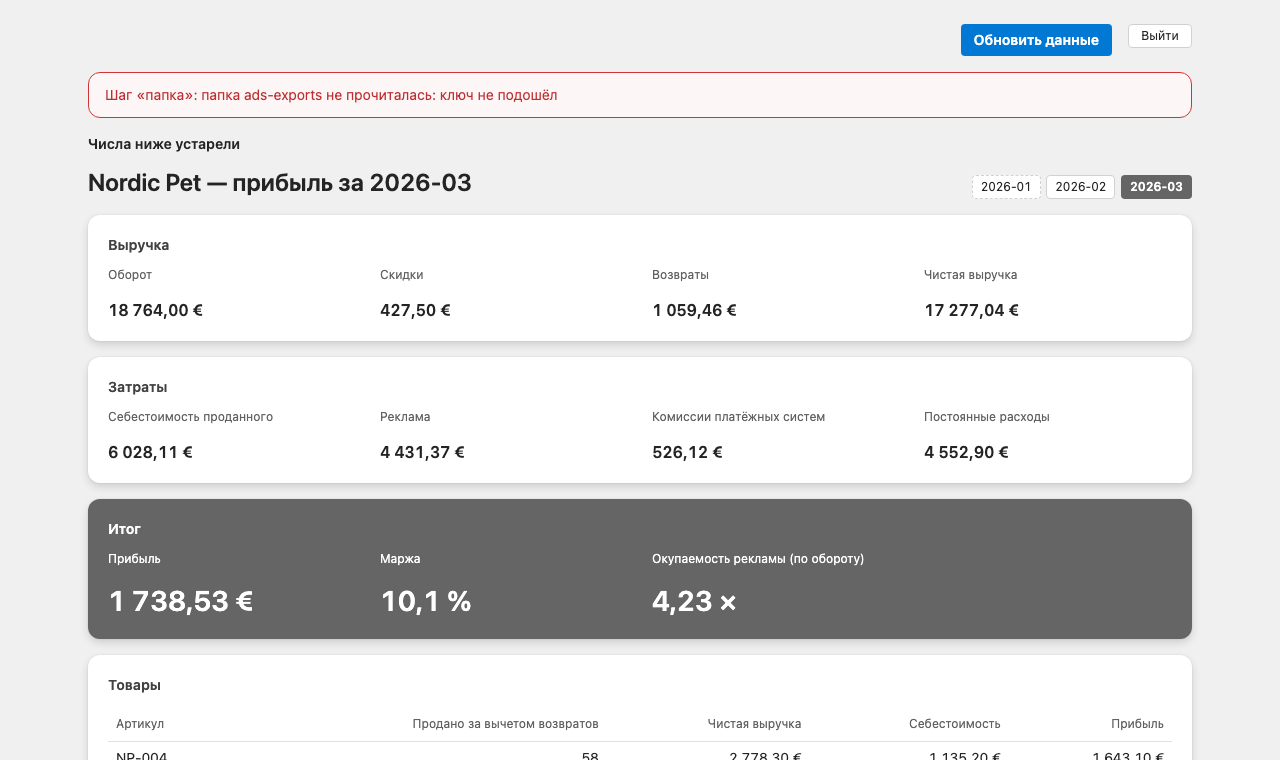
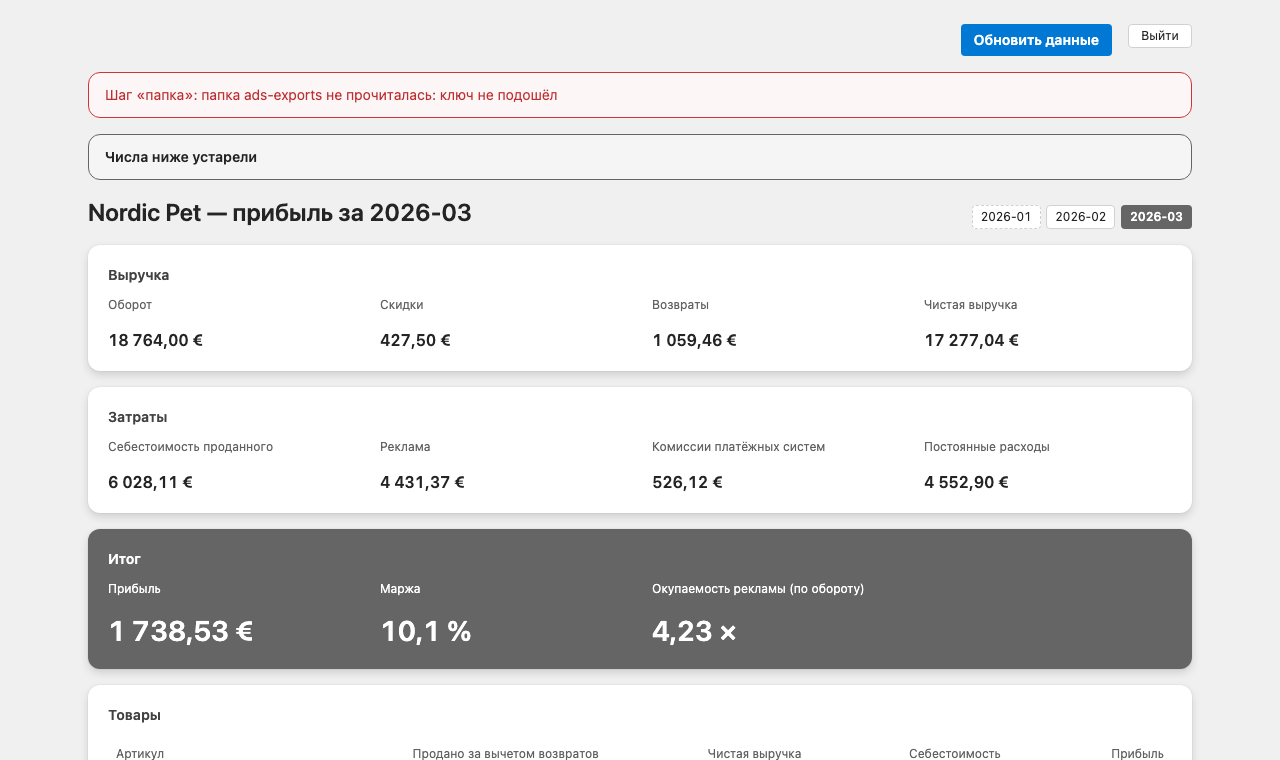
S10: две пометки устаревания к одной форме, распад полосы назван ценой
Пометка «числа ниже устарели» стала плашкой той же формы, что и пометка
холодного открытия: те же отступы, скругление и рамка. Цвет остаётся разным,
и это объяснено — вторая живёт внутри обесцвеченного блока устаревших чисел.

Полоса управления распадается в двух состояниях из пяти. Пробовал стилями:
снять clear у плашки и дать ей свой контекст форматирования — плашка всё равно
уходит под плавающее; сузить её рядом с кнопкой — хуже. Это цена расположения
кнопок в разметке, разметку кусок не открывает. Названо в плане и уйдёт в тело
pull request.

diff --git a/app/globals.css b/app/globals.css
@@ -939,10 +939,26 @@ button.primary:active:not(:disabled) {
   filter: grayscale(1);
 }
 
+/*
+ * Пометка устаревания приводится к одному виду с пометкой холодного открытия.
+ *
+ * Их две и они об одном: «числа отстали» приходит при открытии страницы, «числа ниже устарели» —
+ * после неудачного нажатия кнопки. Прежде первая была плашкой во всю ширину, вторая — голым
+ * жирным текстом на холсте. Теперь обе — плашка одной формы: те же отступы, то же скругление, та
+ * же рамка.
+ *
+ * **Цвет у них всё же разный, и это не недоделка.** Вторая живёт внутри блока устаревших чисел, а
+ * он обесцвечен нарочно, — значит и плашка внутри него выходит серой. Это то же самое сообщение,
+ * показанное в том же обесцвеченном слое, а не второй вид пометки.
+ */
 .stale-mark {
-  margin: 0 0 var(--spacingVerticalM);
-  font-weight: var(--fontWeightSemibold);
+  margin: 0 0 var(--gap);
+  padding: var(--spacingVerticalM) var(--spacingHorizontalL);
+  background: var(--accent-soft);
   color: var(--text);
+  border: var(--strokeWidthThin) solid var(--accent-line);
+  border-radius: var(--borderRadius2XLarge);
+  font-weight: var(--fontWeightSemibold);
 }
 
 /* ——— Страница входа ——— */

diff --git a/docs/screens/chisla-otstali-dark.html b/docs/screens/chisla-otstali-dark.html
@@ -941,10 +941,26 @@ button.primary:active:not(:disabled) {
   filter: grayscale(1);
 }
 
+/*
+ * Пометка устаревания приводится к одному виду с пометкой холодного открытия.
+ *
+ * Их две и они об одном: «числа отстали» приходит при открытии страницы, «числа ниже устарели» —
+ * после неудачного нажатия кнопки. Прежде первая была плашкой во всю ширину, вторая — голым
+ * жирным текстом на холсте. Теперь обе — плашка одной формы: те же отступы, то же скругление, та
+ * же рамка.
+ *
+ * **Цвет у них всё же разный, и это не недоделка.** Вторая живёт внутри блока устаревших чисел, а
+ * он обесцвечен нарочно, — значит и плашка внутри него выходит серой. Это то же самое сообщение,
+ * показанное в том же обесцвеченном слое, а не второй вид пометки.
+ */
 .stale-mark {
-  margin: 0 0 var(--spacingVerticalM);
-  font-weight: var(--fontWeightSemibold);
+  margin: 0 0 var(--gap);
+  padding: var(--spacingVerticalM) var(--spacingHorizontalL);
+  background: var(--accent-soft);
   color: var(--text);
+  border: var(--strokeWidthThin) solid var(--accent-line);
+  border-radius: var(--borderRadius2XLarge);
+  font-weight: var(--fontWeightSemibold);
 }
 
 /* ——— Страница входа ——— */

diff --git a/docs/screens/chisla-otstali.html b/docs/screens/chisla-otstali.html
@@ -941,10 +941,26 @@ button.primary:active:not(:disabled) {
   filter: grayscale(1);
 }
 
+/*
+ * Пометка устаревания приводится к одному виду с пометкой холодного открытия.
+ *
+ * Их две и они об одном: «числа отстали» приходит при открытии страницы, «числа ниже устарели» —
+ * после неудачного нажатия кнопки. Прежде первая была плашкой во всю ширину, вторая — голым
+ * жирным текстом на холсте. Теперь обе — плашка одной формы: те же отступы, то же скругление, та
+ * же рамка.
+ *
+ * **Цвет у них всё же разный, и это не недоделка.** Вторая живёт внутри блока устаревших чисел, а
+ * он обесцвечен нарочно, — значит и плашка внутри него выходит серой. Это то же самое сообщение,
+ * показанное в том же обесцвеченном слое, а не второй вид пометки.
+ */
 .stale-mark {
-  margin: 0 0 var(--spacingVerticalM);
-  font-weight: var(--fontWeightSemibold);
+  margin: 0 0 var(--gap);
+  padding: var(--spacingVerticalM) var(--spacingHorizontalL);
+  background: var(--accent-soft);
   color: var(--text);
+  border: var(--strokeWidthThin) solid var(--accent-line);
+  border-radius: var(--borderRadius2XLarge);
+  font-weight: var(--fontWeightSemibold);
 }
 
 /* ——— Страница входа ——— */

diff --git a/docs/screens/obychnyy-dark.html b/docs/screens/obychnyy-dark.html
@@ -941,10 +941,26 @@ button.primary:active:not(:disabled) {
   filter: grayscale(1);
 }
 
+/*
+ * Пометка устаревания приводится к одному виду с пометкой холодного открытия.
+ *
+ * Их две и они об одном: «числа отстали» приходит при открытии страницы, «числа ниже устарели» —
+ * после неудачного нажатия кнопки. Прежде первая была плашкой во всю ширину, вторая — голым
+ * жирным текстом на холсте. Теперь обе — плашка одной формы: те же отступы, то же скругление, та
+ * же рамка.
+ *
+ * **Цвет у них всё же разный, и это не недоделка.** Вторая живёт внутри блока устаревших чисел, а
+ * он обесцвечен нарочно, — значит и плашка внутри него выходит серой. Это то же самое сообщение,
+ * показанное в том же обесцвеченном слое, а не второй вид пометки.
+ */
 .stale-mark {
-  margin: 0 0 var(--spacingVerticalM);
-  font-weight: var(--fontWeightSemibold);
+  margin: 0 0 var(--gap);
+  padding: var(--spacingVerticalM) var(--spacingHorizontalL);
+  background: var(--accent-soft);
   color: var(--text);
+  border: var(--strokeWidthThin) solid var(--accent-line);
+  border-radius: var(--borderRadius2XLarge);
+  font-weight: var(--fontWeightSemibold);
 }
 
 /* ——— Страница входа ——— */

diff --git a/docs/screens/obychnyy.html b/docs/screens/obychnyy.html
@@ -941,10 +941,26 @@ button.primary:active:not(:disabled) {
   filter: grayscale(1);
 }
 
+/*
+ * Пометка устаревания приводится к одному виду с пометкой холодного открытия.
+ *
+ * Их две и они об одном: «числа отстали» приходит при открытии страницы, «числа ниже устарели» —
+ * после неудачного нажатия кнопки. Прежде первая была плашкой во всю ширину, вторая — голым
+ * жирным текстом на холсте. Теперь обе — плашка одной формы: те же отступы, то же скругление, та
+ * же рамка.
+ *
+ * **Цвет у них всё же разный, и это не недоделка.** Вторая живёт внутри блока устаревших чисел, а
+ * он обесцвечен нарочно, — значит и плашка внутри него выходит серой. Это то же самое сообщение,
+ * показанное в том же обесцвеченном слое, а не второй вид пометки.
+ */
 .stale-mark {
-  margin: 0 0 var(--spacingVerticalM);
-  font-weight: var(--fontWeightSemibold);
+  margin: 0 0 var(--gap);
+  padding: var(--spacingVerticalM) var(--spacingHorizontalL);
+  background: var(--accent-soft);
   color: var(--text);
+  border: var(--strokeWidthThin) solid var(--accent-line);
+  border-radius: var(--borderRadius2XLarge);
+  font-weight: var(--fontWeightSemibold);
 }
 
 /* ——— Страница входа ——— */

diff --git a/docs/screens/otkaz-bazy-dark.html b/docs/screens/otkaz-bazy-dark.html
@@ -941,10 +941,26 @@ button.primary:active:not(:disabled) {
   filter: grayscale(1);
 }
 
+/*
+ * Пометка устаревания приводится к одному виду с пометкой холодного открытия.
+ *
+ * Их две и они об одном: «числа отстали» приходит при открытии страницы, «числа ниже устарели» —
+ * после неудачного нажатия кнопки. Прежде первая была плашкой во всю ширину, вторая — голым
+ * жирным текстом на холсте. Теперь обе — плашка одной формы: те же отступы, то же скругление, та
+ * же рамка.
+ *
+ * **Цвет у них всё же разный, и это не недоделка.** Вторая живёт внутри блока устаревших чисел, а
+ * он обесцвечен нарочно, — значит и плашка внутри него выходит серой. Это то же самое сообщение,
+ * показанное в том же обесцвеченном слое, а не второй вид пометки.
+ */
 .stale-mark {
-  margin: 0 0 var(--spacingVerticalM);
-  font-weight: var(--fontWeightSemibold);
+  margin: 0 0 var(--gap);
+  padding: var(--spacingVerticalM) var(--spacingHorizontalL);
+  background: var(--accent-soft);
   color: var(--text);
+  border: var(--strokeWidthThin) solid var(--accent-line);
+  border-radius: var(--borderRadius2XLarge);
+  font-weight: var(--fontWeightSemibold);
 }
 
 /* ——— Страница входа ——— */

diff --git a/docs/screens/otkaz-bazy.html b/docs/screens/otkaz-bazy.html
@@ -941,10 +941,26 @@ button.primary:active:not(:disabled) {
   filter: grayscale(1);
 }
 
+/*
+ * Пометка устаревания приводится к одному виду с пометкой холодного открытия.
+ *
+ * Их две и они об одном: «числа отстали» приходит при открытии страницы, «числа ниже устарели» —
+ * после неудачного нажатия кнопки. Прежде первая была плашкой во всю ширину, вторая — голым
+ * жирным текстом на холсте. Теперь обе — плашка одной формы: те же отступы, то же скругление, та
+ * же рамка.
+ *
+ * **Цвет у них всё же разный, и это не недоделка.** Вторая живёт внутри блока устаревших чисел, а
+ * он обесцвечен нарочно, — значит и плашка внутри него выходит серой. Это то же самое сообщение,
+ * показанное в том же обесцвеченном слое, а не второй вид пометки.
+ */
 .stale-mark {
-  margin: 0 0 var(--spacingVerticalM);
-  font-weight: var(--fontWeightSemibold);
+  margin: 0 0 var(--gap);
+  padding: var(--spacingVerticalM) var(--spacingHorizontalL);
+  background: var(--accent-soft);
   color: var(--text);
+  border: var(--strokeWidthThin) solid var(--accent-line);
+  border-radius: var(--borderRadius2XLarge);
+  font-weight: var(--fontWeightSemibold);
 }
 
 /* ——— Страница входа ——— */

diff --git a/docs/screens/otkaz-shaga-dark.html b/docs/screens/otkaz-shaga-dark.html
@@ -941,10 +941,26 @@ button.primary:active:not(:disabled) {
   filter: grayscale(1);
 }
 
+/*
+ * Пометка устаревания приводится к одному виду с пометкой холодного открытия.
+ *
+ * Их две и они об одном: «числа отстали» приходит при открытии страницы, «числа ниже устарели» —
+ * после неудачного нажатия кнопки. Прежде первая была плашкой во всю ширину, вторая — голым
+ * жирным текстом на холсте. Теперь обе — плашка одной формы: те же отступы, то же скругление, та
+ * же рамка.
+ *
+ * **Цвет у них всё же разный, и это не недоделка.** Вторая живёт внутри блока устаревших чисел, а
+ * он обесцвечен нарочно, — значит и плашка внутри него выходит серой. Это то же самое сообщение,
+ * показанное в том же обесцвеченном слое, а не второй вид пометки.
+ */
 .stale-mark {
-  margin: 0 0 var(--spacingVerticalM);
-  font-weight: var(--fontWeightSemibold);
+  margin: 0 0 var(--gap);
+  padding: var(--spacingVerticalM) var(--spacingHorizontalL);
+  background: var(--accent-soft);
   color: var(--text);
+  border: var(--strokeWidthThin) solid var(--accent-line);
+  border-radius: var(--borderRadius2XLarge);
+  font-weight: var(--fontWeightSemibold);
 }
 
 /* ——— Страница входа ——— */

diff --git a/docs/screens/otkaz-shaga.html b/docs/screens/otkaz-shaga.html
@@ -941,10 +941,26 @@ button.primary:active:not(:disabled) {
   filter: grayscale(1);
 }
 
+/*
+ * Пометка устаревания приводится к одному виду с пометкой холодного открытия.
+ *
+ * Их две и они об одном: «числа отстали» приходит при открытии страницы, «числа ниже устарели» —
+ * после неудачного нажатия кнопки. Прежде первая была плашкой во всю ширину, вторая — голым
+ * жирным текстом на холсте. Теперь обе — плашка одной формы: те же отступы, то же скругление, та
+ * же рамка.
+ *
+ * **Цвет у них всё же разный, и это не недоделка.** Вторая живёт внутри блока устаревших чисел, а
+ * он обесцвечен нарочно, — значит и плашка внутри него выходит серой. Это то же самое сообщение,
+ * показанное в том же обесцвеченном слое, а не второй вид пометки.
+ */
 .stale-mark {
-  margin: 0 0 var(--spacingVerticalM);
-  font-weight: var(--fontWeightSemibold);
+  margin: 0 0 var(--gap);
+  padding: var(--spacingVerticalM) var(--spacingHorizontalL);
+  background: var(--accent-soft);
   color: var(--text);
+  border: var(--strokeWidthThin) solid var(--accent-line);
+  border-radius: var(--borderRadius2XLarge);
+  font-weight: var(--fontWeightSemibold);
 }
 
 /* ——— Страница входа ——— */

diff --git a/docs/screens/vhod-dark.html b/docs/screens/vhod-dark.html
@@ -941,10 +941,26 @@ button.primary:active:not(:disabled) {
   filter: grayscale(1);
 }
 
+/*
+ * Пометка устаревания приводится к одному виду с пометкой холодного открытия.
+ *
+ * Их две и они об одном: «числа отстали» приходит при открытии страницы, «числа ниже устарели» —
+ * после неудачного нажатия кнопки. Прежде первая была плашкой во всю ширину, вторая — голым
+ * жирным текстом на холсте. Теперь обе — плашка одной формы: те же отступы, то же скругление, та
+ * же рамка.
+ *
+ * **Цвет у них всё же разный, и это не недоделка.** Вторая живёт внутри блока устаревших чисел, а
+ * он обесцвечен нарочно, — значит и плашка внутри него выходит серой. Это то же самое сообщение,
+ * показанное в том же обесцвеченном слое, а не второй вид пометки.
+ */
 .stale-mark {
-  margin: 0 0 var(--spacingVerticalM);
-  font-weight: var(--fontWeightSemibold);
+  margin: 0 0 var(--gap);
+  padding: var(--spacingVerticalM) var(--spacingHorizontalL);
+  background: var(--accent-soft);
   color: var(--text);
+  border: var(--strokeWidthThin) solid var(--accent-line);
+  border-radius: var(--borderRadius2XLarge);
+  font-weight: var(--fontWeightSemibold);
 }
 
 /* ——— Страница входа ——— */

diff --git a/docs/screens/vhod.html b/docs/screens/vhod.html
@@ -941,10 +941,26 @@ button.primary:active:not(:disabled) {
   filter: grayscale(1);
 }
 
+/*
+ * Пометка устаревания приводится к одному виду с пометкой холодного открытия.
+ *
+ * Их две и они об одном: «числа отстали» приходит при открытии страницы, «числа ниже устарели» —
+ * после неудачного нажатия кнопки. Прежде первая была плашкой во всю ширину, вторая — голым
+ * жирным текстом на холсте. Теперь обе — плашка одной формы: те же отступы, то же скругление, та
+ * же рамка.
+ *
+ * **Цвет у них всё же разный, и это не недоделка.** Вторая живёт внутри блока устаревших чисел, а
+ * он обесцвечен нарочно, — значит и плашка внутри него выходит серой. Это то же самое сообщение,
+ * показанное в том же обесцвеченном слое, а не второй вид пометки.
+ */
 .stale-mark {
-  margin: 0 0 var(--spacingVerticalM);
-  font-weight: var(--fontWeightSemibold);
+  margin: 0 0 var(--gap);
+  padding: var(--spacingVerticalM) var(--spacingHorizontalL);
+  background: var(--accent-soft);
   color: var(--text);
+  border: var(--strokeWidthThin) solid var(--accent-line);
+  border-radius: var(--borderRadius2XLarge);
+  font-weight: var(--fontWeightSemibold);
 }
 
 /* ——— Страница входа ——— */
